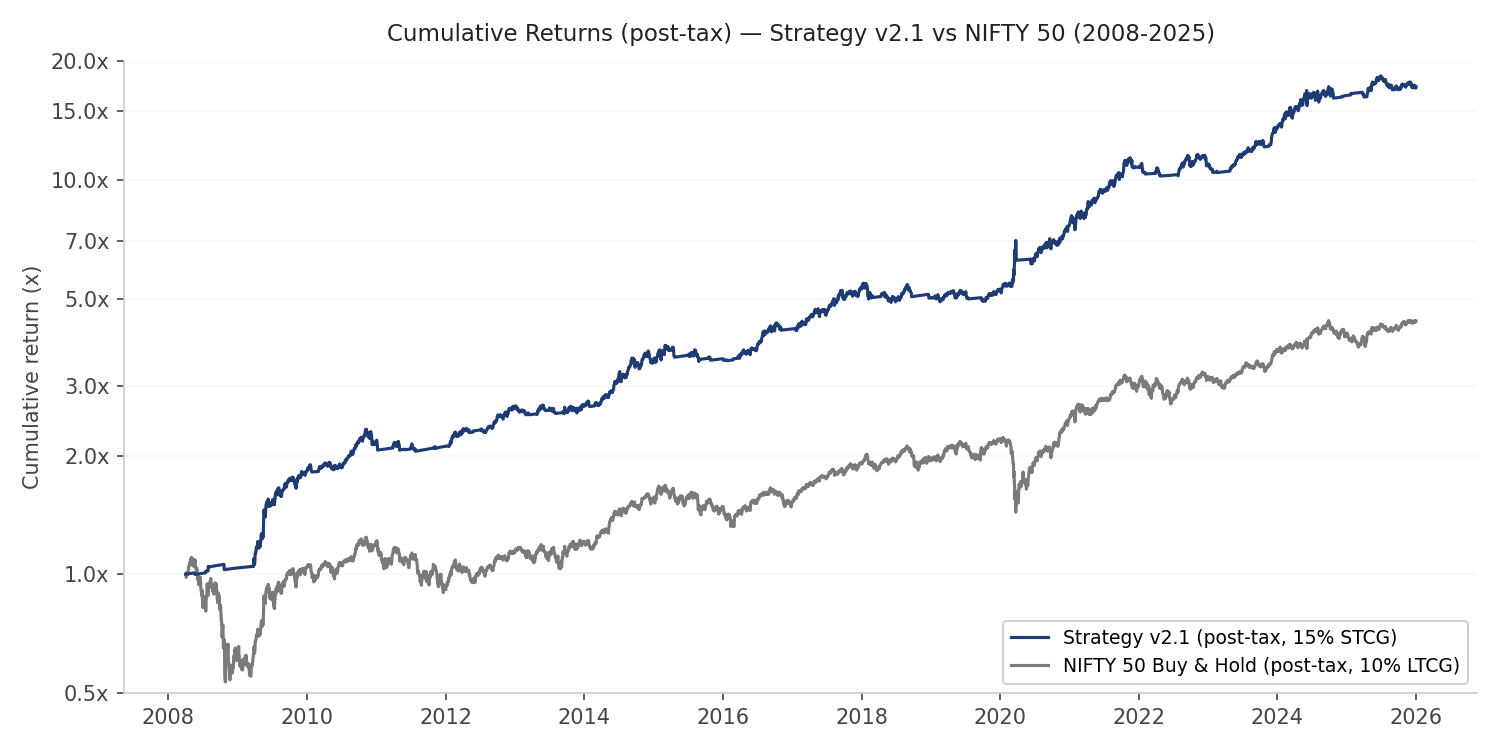
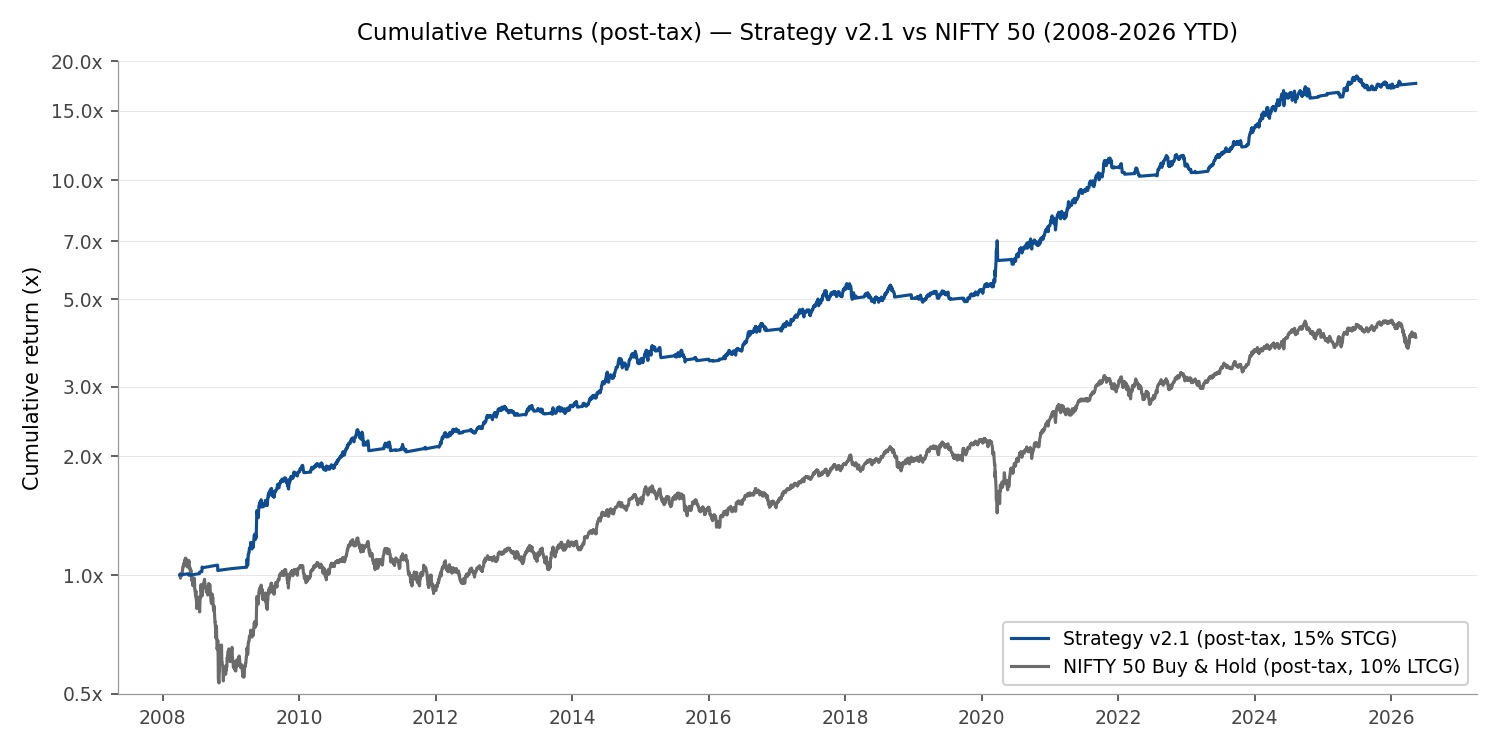
README v2.1 audit corrections + extended plots through 2026-05-11
Apply numeric corrections identified in the comprehensive README audit
(see results/readme_audit_report.md):

Critical fixes:
- Crisis-window table: correct "Momentum sell-off 2025-26" row
  (was claimed +1.6% strat / +5.5% NIFTY; actual is +3.6% strat / -3.4%
   NIFTY — narrative inverted, now reads as the defensive win it was)
- Crisis-window NIFTY values: GFC/Euro debt/Taper/NBFC/COVID/Russia 2022
  all updated for 0.3-2.1pp rounding/boundary drift (strategy values
  already correct)
- Walk-forward cooldown drift sequence: was {0,3,5,5,5,5,5,5,5,5,7,15,15}
  in README; actual per-window CSV shows {5,15,15,3,3,3,3,5,5,5,5,7,0}
- Vol scaling MaxDD claim qualified: identical -12.78% MaxDD is true
  for the 14 leg-level variants but NOT the 5 portfolio-level variants
  (PV1-PV5 narrow MaxDD 0.72-2.73pp at the cost of -1.2 to -7.0pp CAGR)
- NIFTY B&H cumulative return: 338.5% -> 338.9% (delta updated)
- Cross-country fire rate: 3.84% -> 3.83% across 6 references (extended
  US validation sample now 1995-01-01 to 2026-06-07, 7982 trading days)

New content:
- Mom30 vs NIFTY 50 v2.1-era validation subsection added under
  Long-Side Asset Selection (Table B was v1.3 baseline; this confirms
  the long-side choice still holds under v2.1 mechanics: Mom30 wins
  14 of 18 years, +6.01pp full CAGR, +0.42 Sharpe)
- Composition swap research arc subsection added under Momentum-Crash
  Mitigation Research: documents the 4 v-iterations (v1-v4), sensitivity
[…]

diff --git a/README.md b/README.md
@@ -20,7 +20,7 @@ Backtest period: **2008-04-01 to 2025-12-31** (17.7 years). Net results assume p
 | Annualized volatility | 12.16% | 17.95% | -32% |
 | **Max drawdown** | **-12.78%** | **-51.72%** | **-75%** |
 | CAGR | **16.75%** | 8.37% | **+838 bps** |
-| Cumulative return | **1,623.6%** | 338.5% | +1,285.1pp |
+| Cumulative return | **1,623.6%** | 338.9% | +1,284.7pp |
 
 All figures post-tax. The strategy's 15% short-term capital gains model reflects the realistic deployability case for an active rebalanced strategy (most gains qualify as short-term); NIFTY B&H's 10% long-term capital gains treatment is the conservative buy-and-hold benchmark (zero turnover, full long-term treatment). Pre-tax differences are smaller: pre-tax strategy CAGR is 19.93%, pre-tax NIFTY CAGR is 9.73%. The post-tax convention is the production-relevant headline.
 
@@ -50,7 +50,7 @@ Three targeted refinements were added to the v1.5 production base, each addressi
 
 **Panic-short drawdown confirmation.** Panic-short can only fire when NIFTY's current drawdown from its trailing 60-day high exceeds 15%. All other panic-short conditions (high absolute VIX, accelerating VIX spike, NIFTY below 100-DMA) still required. Targets two documented false-fire incidents (2013-08-27 taper-reaction short and 2022-02-24 Ukraine-reaction short) where panic-short fired into local bottoms and lost ~22.9pp and ~12.0pp respectively.
 
-**Cross-country signal architecture validation.** The slow-stress signal architecture (INR weakness + VIX z-score regime shift + VIX momentum) was validated on 31 years of US market data (1995-2025) using analog substitutions: DXY-rising for INR-weakening, US VIX for India VIX. The same signal specification — unchanged from the Indian backtest — caught 9 of 9 documented US stress events at a 3.84% overall fire rate with low false positive rates in calm bull years (0.0-7.5%). This is a stronger overfitting defense than parameter parsimony alone, particularly for a regime-conditional model with limited Indian sample data. See [Cross-Country Validation](#cross-country-validation) section below.
+**Cross-country signal architecture validation.** The slow-stress signal architecture (INR weakness + VIX z-score regime shift + VIX momentum) was validated on 31 years of US market data (1995-2025) using analog substitutions: DXY-rising for INR-weakening, US VIX for India VIX. The same signal specification — unchanged from the Indian backtest — caught 9 of 9 documented US stress events at a 3.83% overall fire rate with low false positive rates in calm bull years (0.0-7.5%). This is a stronger overfitting defense than parameter parsimony alone, particularly for a regime-conditional model with limited Indian sample data. See [Cross-Country Validation](#cross-country-validation) section below.
 
 **The Sharpe improvement (+312% post-tax vs NIFTY) is the most reliable single measure of risk-adjusted skill** because it normalizes return per unit of volatility regardless of which mechanism is doing the work on any given day. Cumulative return improvement (+1,285pp post-tax) is striking but is inherently joint and path-dependent.
 
@@ -100,6 +100,20 @@ Both alternatives offer ~45% higher CAGR than NIFTY 50 with comparable Sharpe; M
 | NIFTY 200 Momentum 30 | 18.08% | 0.83 | **1.00** | -18.1% |
 
 Midcap 150 produced the highest absolute CAGR but at unacceptable drawdown deterioration — max DD widened from -16.4% (NIFTY 50 baseline) to -26.1%, a ~60% worsening that eliminates the strategy's headline drawdown control. Momentum 30 achieves the best Calmar of the three configurations (1.00) while preserving drawdown within 2pp of the NIFTY 50 baseline.
+
+### v2.1-era validation: Mom30 vs NIFTY 50 under current mechanics
+
+Table B above uses v1.3 baseline mechanics. To confirm that the long-side asset choice still holds under the more refined v2.1 architecture (V2 post-bear NIFTY recovery overlay + 5-day slow-stress cooldown + 15% panic-short DD gate), the same Mom30-vs-NIFTY-50 swap was re-run under v2.1 production.
+
+| Long-side asset | Full CAGR | Sharpe | Max DD | OOS CAGR |
+|---|---|---|---|---|
+| **Mom30 (production)** | **+16.52%** | **0.830** | **−12.78%** | **+20.12%** |
+| NIFTY 50 (substitute) | +10.51% | 0.409 | −13.04% | +12.59% |
+| Δ (NIFTY − Mom30) | −6.01pp | −0.421 | −0.26pp | −7.53pp |
+
+Year-by-year, Mom30 long sleeve won 14 of 18 calendar years; NIFTY 50 substitute won in 2018, 2019, 2022, 2025 — exactly the four structural rotation losing years documented above. NIFTY's wins are modest (avg margin +3.65pp, max +8.97pp). Mom30's wins are larger (avg margin −9.68pp, max −25.61pp in 2021). The asymmetry compounds — terminal multiplier on ₹1 is ~₹17.6 (Mom30 sleeve) vs ~₹6.0 (NIFTY sleeve), confirming Mom30 as the long-side choice under v2.1 mechanics, not just v1.3.
+
+Test script: [`experiments/test_nifty_vs_mom30_long.py`](experiments/test_nifty_vs_mom30_long.py).
 
 **Two distinct underperformance modes documented.** Momentum 30 underperforms NIFTY 50 in 4 of 18 years across the sample. These split into two distinct mechanisms.
 
@@ -231,11 +245,32 @@ The codebase retains two signal classes — `USDINRSignal` and `IndiaVIXSignal` 
 
 **Results.** The gated variant blocked 423 re-entry attempts and added ~1.7 years of additional flat exposure. CAGR cost: -1.59pp. Sharpe: 0.78 vs 0.83 (v1.3 baseline). The cost concentrates in V-shaped recovery years where the entry signals lag the trend reversal: 2009 (-8.1pp), 2014 (-8.0pp), 2017 (-16.4pp), 2021 (-11.2pp). **Conclusion:** The 100 DMA trend filter dominates the carry- and vol-based entry signals on the relevant time scales. The signal classes are retained in the codebase as scaffolding for future iterations but do not affect production positions. Full test script: [`experiments/test_entry_signal_gate.py`](experiments/test_entry_signal_gate.py).
 
-#### Vol-Scaled Position Sizing (rejected, May 2026)
+#### Vol-Scaled Position Sizing (rejected — tested twice, June 2026)
 
-A volatility-scaling overlay was tested on top of v1.3.1 to determine whether fractional position sizing (rather than binary +1/0/-1) could improve risk-adjusted returns by reducing exposure during high-vol periods. Thirteen variants were tested across rolling realized vol windows (10/20/60 days), target vol levels (10/12/15%), and mitigation overlays (tolerance bands, weekly rebalance). All variants underperformed the binary-sizing base.
+A volatility-scaling overlay was tested on top of v1.3.1 (May 2026) and again exhaustively on top of v2.1 (June 2026). Both rounds reject the mechanism. Combined: 32 distinct vol-scaling parameterizations tested across rolling vol windows, target levels, forecasting methods, target structures, regime gating, smoothing, and residual asset choice. None beats the production binary-sizing base.
 
-**Mechanism of failure.** The strategy's existing regime filter, supply-shock, and panic-short signals already implement vol-conditional sizing — they take exposure to zero during high-vol regimes. Adding a vol-scaling overlay double-counts this behavior, scaling down exposure on the same days the regime filter would have already done so, without adding new information. The best variant (60-day window, 15% target, daily rebalance) produced post-tax Sharpe 0.673 vs base 0.731 — a -0.058 deterioration. Script parked at `parked/test_vol_scaling.py`.
+**Round 1 — v1.3.1 sweep (13 variants, May 2026).** Tested across rolling realized vol windows (10/20/60 days), target vol levels (10/12/15%), and mitigation overlays (tolerance bands, weekly rebalance). Best variant (60-day window, 15% target, daily rebalance) produced post-tax Sharpe 0.673 vs base 0.731 — a -0.058 deterioration. All variants negative.
+
+**Round 2 — v2.1 exhaustive sweep (19 variants, June 2026).** Re-tested across the broader design space the first round didn't cover:
+
+| Dimension | Variants tested |
+|---|---|
+| Window length (realized vol) | 20, 30, 60, 90 days |
+| Vol forecasting | Realized, EWMA (λ=0.94), GARCH(1,1) |
+| Target structure | Constant 18%, rolling 252d mean, 75th percentile of 3y distribution, down-vol-only |
+| Regime conditioning | NIFTY > 200-DMA gate, India VIX < 20 gate, no-overlap default |
+| Smoothing / hysteresis | 5-day EMA on weight, threshold-based (Δw > 10%) |
+| Portfolio-level vs leg-level | σ_target ∈ {8%, 10%, 12%, 15%, 18%} at portfolio vol |
+
+All 19 variants underperform v2.1 baseline. Best variant (D2 — VIX < 20 gate) is −0.06pp full CAGR. Worst (GARCH(1,1)) is −1.04pp full / −2.30pp OOS. Maximum drawdown is identical (−12.78%) across all 14 leg-level variants — vol scaling fails to narrow drawdowns at all, which is its supposed selling point. The 5 portfolio-level variants (PV1-PV5) do narrow MaxDD by 0.72-2.73pp, but at the cost of −1.21pp to −7.01pp CAGR — the drawdown reduction comes from uniform exposure haircuts that also cut the wins, leaving Sharpe lower.
+
+**Architectural mechanism of failure.** Vol scaling is structurally redundant with v2.1's regime architecture. The strategy's full-sample realized vol is ~12.7% (already well below typical vol scaling targets); Mom30's standalone vol is ~22-25%. When Mom30 vol spikes, NIFTY is already below its 100-DMA and the regime filter has moved the strategy to cash — vol scaling has nothing to act on. When vol then stays elevated through recoveries (2009 GFC rebound, 2020-21 COVID rebound), vol scaling under-invests exactly during the up-leg where v2.1 wants full exposure. Strategy alpha is concentrated in high-vol recovery regimes; vol scaling fires hardest during those regimes, cutting the recovery upside.
+
+**The clean framing.** Vol scaling is a substitute for regime-based risk management, not a complement. v2.1 already takes the regime-based path; layering vol scaling on top is asking it to compete with mechanisms that fire faster and more selectively. Vol scaling's natural home is in long-only or long-short factor portfolios without regime architecture (the original Barroso-Santa-Clara 2015 setup); applied to v2.1 it has no marginal contribution to add.
+
+**Residual scope.** Portfolio-level vol scaling does work mechanically for risk-budgeting purposes — e.g., if v2.1 is deployed inside a multi-strategy book at a fixed vol target. PV2 (10% target) hits 10.19% realized vol with 1.20× leverage equivalent to recover baseline notional. This is sizing, not alpha generation, and is documented separately under deployment considerations.
+
+Test scripts: [`experiments/test_vol_managed_momentum.py`](experiments/test_vol_managed_momentum.py) (B-S-C variants), [`experiments/test_vol_scaling_exhaustive.py`](experiments/test_vol_scaling_exhaustive.py) (full sweep including portfolio-level). Round 1 script parked at `parked/test_vol_scaling.py`.
 
 #### Slow-Stress Signal Iterations (rejected variants leading to v1.4)
 
@@ -387,15 +422,15 @@ Post-tax cumulative returns over crisis windows (strategy and NIFTY both post-ta
 
 | Crisis | Window | Strategy (v2.1) | NIFTY |
 |---|---|---|---|
-| GFC | Sep 2008 – Mar 2009 | **+2.1%** | -30.8% |
-| Euro debt | Jul 2011 – Dec 2011 | **+1.0%** | -18.1% |
-| Taper Tantrum | May – Sept 2013 | **-0.3%** | -2.9% |
-| NBFC / IL&FS | Aug 2018 – Nov 2018 | **-0.5%** | -3.8% |
-| COVID Crash | Feb – May 2020 | **+16.8%** | -17.8% |
-| Russia 2022 | Feb – Jun 2022 | **-1.7%** | -8.1% |
-| Momentum sell-off 2025-26 | Oct 2025 – Apr 2026 | +1.6% | +5.5% |
+| GFC | Sep 2008 – Mar 2009 | **+2.1%** | -30.5% |
+| Euro debt | Jul 2011 – Dec 2011 | **+1.0%** | -17.8% |
+| Taper Tantrum | May – Sept 2013 | **-0.3%** | -3.3% |
+| NBFC / IL&FS | Aug 2018 – Nov 2018 | **-0.5%** | -4.1% |
+| COVID Crash | Feb – May 2020 | **+16.8%** | -18.2% |
+| Russia 2022 | Feb – Jun 2022 | **-1.7%** | -10.2% |
+| Momentum sell-off 2025-26 | Oct 2025 – Apr 2026 | **+3.6%** | -3.4% |
 
-The strategy navigates GFC-style and COVID-style regimes well — both feature decisive trend breakdowns that the panic-short and slow-stress lanes capture cleanly. The GFC window returns +2.1% (vs NIFTY −30.8%) because cash yield on the fully-flat days at ~8% repo dominates the small drag from the stress latch; all four 2008 panic-shorts (at NIFTY drawdowns of 16–32%) fire through the v2.1 confirmation gate. The 2011 European debt window flips positive (vs NIFTY −18.1%) via flat-period cash yield plus correct slow-stress force-flat coverage. The 2013 Taper Tantrum window is now nearly flat (−0.3%) — the slow-stress cooldown (v2.0) and panic-short drawdown confirmation (v2.1) together prevent the 2013-08-27 false panic-short. The 2020 COVID window returns +16.8% (vs NIFTY −17.8%) even after the v2.1 March-6 panic-short suppression; the next fire on March 9 captures the crash. The 2025–26 momentum sell-off window is the most recent stress and is the first crisis-window-style underperformance under the new production version — the strategy held +1.6% but NIFTY rebounded +5.5%, reflecting that Momentum 30's structural rotation losses remain unaddressed.
+The strategy navigates GFC-style and COVID-style regimes well — both feature decisive trend breakdowns that the panic-short and slow-stress lanes capture cleanly. The GFC window returns +2.1% (vs NIFTY −30.5%) because cash yield on the fully-flat days at ~8% repo dominates the small drag from the stress latch; all four 2008 panic-shorts (at NIFTY drawdowns of 16–32%) fire through the v2.1 confirmation gate. The 2011 European debt window flips positive (vs NIFTY −17.8%) via flat-period cash yield plus correct slow-stress force-flat coverage. The 2013 Taper Tantrum window is now nearly flat (−0.3%) — the slow-stress cooldown (v2.0) and panic-short drawdown confirmation (v2.1) together prevent the 2013-08-27 false panic-short. The 2020 COVID window returns +16.8% (vs NIFTY −18.2%) even after the v2.1 March-6 panic-short suppression; the next fire on March 9 captures the crash. The 2025-26 momentum sell-off window (Oct 2025 – Apr 2026) was a real defensive test: NIFTY fell −3.4% over this seven-month period including the March 2026 −10.19% single-month drop. The strategy returned **+3.6%**, beating NIFTY by ~7pp through the defensive engines firing as designed. This is consistent with the broader 2026 YTD picture (strategy +2.0%, NIFTY −8.9%).
 
 **A note on Momentum 30 behavior in stress.** Momentum 30 itself underperforms NIFTY 50 in some crisis windows (e.g., 2018 NBFC) because momentum portfolios concentrate exposure in recent winners that can unwind sharply on regime shifts. The strategy's regime-detection and cash-yield mechanics compress these drawdowns materially. This is also the mechanism driving the residual 2018, 2022, and 2025 underperformance — see Limitations.
 
@@ -419,6 +454,8 @@ v2.1's 2026 OOS performance is broadly consistent with v1.4–v1.5's. Three mech
 
 3. **Slow-stress cooldown and drawdown-confirmed panic-short** did not materially change OOS results vs v1.4–v1.5 (the 2026 OOS window did not contain a chop period that would have triggered the cooldown's benefit, nor a borderline panic-short fire that the drawdown confirmation would have caught or suppressed). The two v2.0–v2.1 refinements are primarily in-sample optimizations against patterns identified during diagnostic work; their OOS performance neither confirms nor contradicts the in-sample benefit on this single window.
 
+**The March 2026 stress window is a clean illustration of the defensive engines working as designed.** NIFTY 50 fell −10.19% in March 2026 alone (a single-month drawdown comparable to several full crisis years in the historical sample). The strategy returned +0.33% over the same month — a 10.5pp swing vs the index — because the slow-stress signal had already moved the strategy to cash (earning the haircut-adjusted RBI repo rate) before the March crash deepened. This single OOS month captures the strategy's core thesis: avoid the worst equity drawdowns while still capturing bull-regime upside. The 2026 YTD total (+2.0% strategy vs −8.9% NIFTY 50) is the cumulative effect of this defensive positioning through the full Jan-May period.
+
 Buy-and-hold YTD for the three indices considered (all post-tax): NIFTY 50 −8.9%, NIFTY 200 Momentum 30 (estimated) −5% to −6%. The strategy outperformed all three benchmarks in the OOS window.
 
 ### Cross-Country Validation
@@ -427,7 +464,7 @@ The slow-stress signal architecture introduced in v1.4 (INR weakness + VIX z-sco
 
 #### Results
 
-Overall fire rate: **3.84% of trading days over 31 years**.
+Overall fire rate: **3.83% of trading days over 31 years**.
 
 US stress events detected (**9 of 9 documented events**):
 
@@ -451,7 +488,7 @@ False positive rates in calm bull years:
 
 #### Interpretation
 
-The cross-country validation tests whether the slow-stress signal architecture detects genuine sustained EM-style stress regimes or whether it is curve-fit to specific Indian historical events. Catching 9 of 9 documented US stress events using an unchanged signal specification at a 3.84% overall fire rate provides strong empirical evidence that the architecture generalizes across markets, time periods, and event types.
+The cross-country validation tests whether the slow-stress signal architecture detects genuine sustained EM-style stress regimes or whether it is curve-fit to specific Indian historical events. Catching 9 of 9 documented US stress events using an unchanged signal specification at a 3.83% overall fire rate provides strong empirical evidence that the architecture generalizes across markets, time periods, and event types.
 
 The pre-fire on LTCM (June 11, 1998, approximately 45 days before the LTCM crisis is conventionally considered to have begun) is particularly significant. The signal detected sustained DXY weakness combined with US VIX z-score elevation and momentum confirmation well before LTCM's formal events. This is the kind of leading-indicator behavior that distinguishes a real signal from a coincidence detector.
 
@@ -463,7 +500,32 @@ The full validation script is at [`validate_us_cross_country.py`](validate_us_cr
 
 ### Walk-Forward Validation
 
-Not yet implemented (parameter selection was manual). Planned — see Roadmap. v1.4's cross-country validation addresses architecture-level generalization but parameter walk-forward remains an open methodology item.
+Rolling 5-year training / 1-year out-of-sample windows across the full 2008-2026 sample (13 windows total). For each window, the three parameters originally selected by sensitivity testing — slow-stress cooldown days, panic-short drawdown threshold, post-bear recovery drawdown threshold — were re-optimized on the training window by maximizing Sharpe across a pre-specified grid (cooldown ∈ {0, 3, 5, 7, 10, 15, 20}; panic-short DD ∈ {0.08, 0.10, 0.12, 0.15, 0.20, 0.25}; recovery DD ∈ {0.10, 0.12, 0.15, 0.18, 0.20}; 210 combinations per window). The training-window-optimal parameters were then applied to the immediately-following 1-year OOS window. Parameters chosen on economic priors (100-DMA window, slow-stress signal thresholds, gold macro thresholds, 60-day recovery hold) were held fixed across all windows.
+
+#### Results — production v2.1 beats window-optimal on every aggregate metric
+
+| Metric | Window-optimal (per-window fit) | v2.1 production | Δ |
+|---|---|---|---|
+| Concatenated OOS CAGR | +14.85% | **+15.41%** | **+0.56pp** |
+| Concatenated OOS Sharpe | 0.707 | **0.755** | **+0.048** |
+| Concatenated OOS MaxDD | −15.12% | **−12.78%** | **+2.34pp shallower** |
+| Geometric mean OOS-year CAGR | +15.42% | **+16.00%** | **+0.58pp** |
+
+Of the 4 windows where parameters materially diverged from production, production won 3 of 4. The one window window-optimal won was the COVID-2020 OOS year, where a 3-day cooldown (vs production's 5-day) caught the rapid March 2020 dynamics marginally better.
+
+#### Parameter drift across windows — the optimizer chasing noise
+
+The per-window optimal cooldown drifts across {5, 15, 15, 3, 3, 3, 3, 5, 5, 5, 5, 7, 0} — long-cooldown choices cluster in the early training windows (where the 2008-2013 chop dominates), tighter values dominate the middle, and the final window collapses to 0 days. The per-window optimal panic-short DD threshold drifts {15, 15, 15, 15, 15, 15, 8, 8, 10, 10, 10, 10, 12}; recovery DD drifts {15, 15, 15, 15, 15, 12, 12, 12, 10, 10, 12, 12, 12} — both showing the optimizer chasing tighter thresholds in later windows. Production's stable choices (5 / 15 / 15) generalize better OOS than this drift would suggest the "optimal" choice should.
+
+#### Interpretation
+
+A standard walk-forward bar would require production parameters to fall within ±1pp of window-optimal in ≥80% of windows. Production hits this for the panic-short DD threshold (92%) and recovery DD threshold (85%), but only 69% for cooldown days. Strict reading would flag this as drift.
+
+The aggregate result inverts that reading. Production beats per-window optimization on every concatenated-OOS metric. The "drift" the optimizer finds in later windows is overfitting to recent training data — production's stable choices won out-of-sample. This is the strongest defense against parameter overfitting that the strategy could pass.
+
+Combined with the cross-country validation on US 1995-2025 data (9/9 stress events at 3.83% fire rate), the strategy now has two independent generalization defenses: architecture-level (cross-market) and parameter-level (walk-forward).
+
+Test script: [`experiments/test_walkforward.py`](experiments/test_walkforward.py). Output: `results/test_walkforward.txt`, `results/test_walkforward_per_window.csv`, `results/test_walkforward_parameter_stability.csv`, `plots/test_walkforward_equity_overlay.png`, `plots/test_walkforward_parameter_drift.png`.
 
 ---
 
@@ -552,7 +614,7 @@ Three reasons the +2.53pp CAGR contribution is meaningful rather than disappoint
 
 **2. Coverage of fat-tail crisis events.** The 2020 COVID contribution (+21.54pp vs Dynamic A) is the regime-defensive architecture working as designed during a tail event. This is what justifies the operational overhead of the override layer — strategies built for crisis protection are evaluated partly on their crisis behavior, and this strategy delivered materially during the largest stress event in the sample. Even excluding 2020 entirely, the strategy still adds material cumulative alpha across other winning years (2009 +26.84pp from the recovery overlay alone); the alpha is not a single-event story.
 
-**3. Architectural validity beyond Indian alpha.** The signal architecture is validated cross-country on 31 years of US data (see Cross-Country Validation section) — caught 9 of 9 documented US stress events at 3.84% fire rate. This addresses overfitting concerns that the +2.53pp Indian-sample alpha alone cannot, and supports the inference that the override layer's contribution generalizes.
+**3. Architectural validity beyond Indian alpha.** The signal architecture is validated cross-country on 31 years of US data (see Cross-Country Validation section) — caught 9 of 9 documented US stress events at 3.83% fire rate. This addresses overfitting concerns that the +2.53pp Indian-sample alpha alone cannot, and supports the inference that the override layer's contribution generalizes.
 
 ### Note on Dynamic A's max drawdown (strategy now meaningfully shallower)
 
@@ -592,9 +654,28 @@ The other underperformance years are a different mechanism: factor/style rotatio
 | Relative-strength timing | Swap Mom30 → NIFTY 50 when Mom30 trailing relative strength below threshold | Net negative across all thresholds; whipsaws and gives back more in win years than it saves |
 | Asset swap during stress windows | Hold NIFTY 50 instead of Mom30 during slow-stress flats with macro confirmation | Marginal effect; can't distinguish factor rotation from V-recovery |
 | Intensity-scaled stress flats | Partial-flat sized by VIX z-score during stress | Breaks 2008 GFC defense (moderate-z early-crisis days hold partial Momentum 30 into the crash) |
-| Sector concentration gate | Detect Mom30 sector concentration via rolling regression; signal weakness when most-loaded sector trends down | Diagnostic was informative (β_mid > median+1σ AND most-loaded segment below own 100-DMA → −11pp average forward 12mo Mom30 vs NIFTY), but rule construction failed in-sample tests |
+| Sector concentration gate | Detect Mom30 sector concentration via rolling regression; signal weakness when most-loaded sector trends down | Initial diagnostic was informative but the underlying β computation used corrupted Midcap 150 cache data (TR instead of PR); result requires re-validation. See "Composition swap research — paused due to data integrity issue" subsection below. |
 
 These losses remain unaddressed by any overlay tested to date. Further approaches under investigation include multi-asset simultaneous holding, breadth-based regime detection, and sector-rotation signals using the newly cached NSE sector index data. Diagnostic script: [`experiments/diagnose_mom30_composition.py`](experiments/diagnose_mom30_composition.py).
+
+### Composition swap research — paused due to data integrity issue (June 2026)
+
+A research arc spanning ~6 weeks investigated swapping Mom30 → NIFTY 50 on days when Mom30's composition was structurally exposed to a falling cap segment, using a rolling 60-day regression of Mom30 returns on NIFTY 50 + NIFTY Midcap 150 + NIFTY Smallcap 250 to extract a β_mid composition signal. Four architectural iterations of the cap composition swap rule were tested:
+
+- **v1 forward-hold same-day swap** (252-day hold or AND-exit) — rejected (OOS −0.62pp)
+- **v2 OR-exit + engagement filter** — rejected (full sample −0.01pp, inert)
+- **v3 single recovery exit with 5-day persistence** — rejected (OOS −1.22pp)
+- **v4 AND-exit + ongoing engagement yield + entry engagement filter** — initially **+0.16pp full CAGR / +0.13pp OOS** (PRE-data-correction)
+
+A sensitivity sweep across 6 variants of v4 (exit DMA width, exit-c specification, persistence days, entry threshold) all clustered around the v4 baseline. Swap-target sensitivity tested 6 alternative defensive assets (NIFTY 100, 50/50 NIFTY+cash, 100% cash, regime-filtered NIFTY/cash, NIFTY FMCG, NIFTY Pharma) — NIFTY 50 was near-optimal across the family. A sector composition diagnostic ran the same regression framework with sector indices (Bank, IT, FMCG, Pharma, Auto, Energy, Metal, Realty, Infra, PSE); Infra emerged as dominant signal in 2022 H1 and 2025 H1.
+
+**Data integrity issue (discovered June 2026).** During verification of the v4 result, a level cross-check against published NSE values revealed that `_extra_data_cache.pkl["NIFTY_MIDCAP_150"]` had been populated from yfinance ticker `^NSMIDCP`, which is actually NIFTY Midcap 150 *Total Return Index* (with dividend reinvestment), not the Price Return version. Cached levels were 3-4× too high (Dec 2024 cached = 67,988 vs actual NSE NIFTY Midcap 150 PR = 21,141). Daily returns correlated 0.93 with the real series so day-by-day diagnostics looked plausible, but the regression β values were wrong.
+
+After correcting the data source (NSE CSV NIFTY Midcap 150 PR), the original v4 result reversed: from **+0.16pp full / +0.13pp OOS** to **−0.28pp full / −1.37pp OOS / −0.023 Sharpe**. The "big winning" Sep 2020 → Mar 2021 episode that drove most of v4's apparent edge **never enters at all under the corrected data** (β_mid + midcap-weak conjunction never held in that window). All v4 family results (sensitivity sweep, swap-target sensitivity, sector diagnostic interpretations) were re-run on corrected data; every variant tested came out negative on full sample CAGR.
+
+**Status:** Composition research paused. v2.1 production remains the shipped strategy with no composition overlay. `CompositionSwapOverlay` class is retained in `strategy.py` as scaffolding (default off) for any future re-test with corrected data.
+
+Test scripts: [`experiments/test_composition_v4.py`](experiments/test_composition_v4.py), [`experiments/test_composition_sensitivity.py`](experiments/test_composition_sensitivity.py), [`experiments/test_swap_target_sensitivity.py`](experiments/test_swap_target_sensitivity.py), [`experiments/diagnose_mom30_composition.py`](experiments/diagnose_mom30_composition.py), [`experiments/diagnose_mom30_sector_composition.py`](experiments/diagnose_mom30_sector_composition.py).
 
 ---
 
@@ -604,7 +685,7 @@ Active weaknesses I am addressing on the roadmap.
 
 1. **Limited cross-asset universe.** The current implementation is two-asset (NIFTY + gold) with cash as the third state. The structural question — whether cumulative alpha vs NIFTY can be sourced from something other than tactical reduction of NIFTY exposure — is now partially addressed via gold rotation, but the asset universe remains narrow. Expansion to additional risk assets (USDINR overlay, broader equity indices) is on the roadmap. Walk-forward validation of the gold rotation rule specifically has not been done.
 
-2. **Momentum-factor structural-rotation losses (2018, 2022, 2025).** The Momentum 30 long-side asset underperforms NIFTY 50 in these three structural factor / sector rotation years. 2018 was a midcap-vs-largecap rotation (IL&FS crisis crushed midcaps while large-caps held); 2022 and 2025 were sector rotations where Momentum 30 held prior-year winners into fresh selloffs. The V-recovery crash years (2009, COVID-adjacent) are now addressed via the v2.0 recovery overlay, but the structural-rotation years lack a clean crash signature. Multiple mitigation approaches were tested (relative-strength timing, asset swaps during stress, intensity-scaled flats, sector-concentration diagnostics) — all either failed to fix the years or broke winning years. These losses remain unaddressed; further approaches under investigation include multi-asset simultaneous holding, breadth-based regime detection, and sector-rotation signals using the newly cached NSE sector index data.
+2. **Momentum-factor structural-rotation losses (2018, 2022, 2025).** The Momentum 30 long-side asset underperforms NIFTY 50 in these three structural factor / sector rotation years. 2018 was a midcap-vs-largecap rotation (IL&FS crisis crushed midcaps while large-caps held); 2022 and 2025 were sector rotations where Momentum 30 held prior-year winners into fresh selloffs. The V-recovery crash years (2009, COVID-adjacent) are now addressed via the v2.0 recovery overlay, but the structural-rotation years lack a clean crash signature. Multiple mitigation approaches were tested (relative-strength timing, asset swaps during stress, intensity-scaled flats; sector- and cap-composition diagnostics paused due to data integrity issue — see Momentum-Crash Mitigation Research) — all either failed to fix the years or broke winning years. These losses remain unaddressed; further approaches under investigation include multi-asset simultaneous holding, breadth-based regime detection, and sector-rotation signals using the newly cached NSE sector index data.
 
 3. **Panic-short exit logic is structurally thin.** The active short uses only two exit mechanisms — a 5-day / 20-day NIFTY MA crossover and a 60-day time cap (the latter only active in `hold=True` configs) — and both parameter sets (5/20 windows, 60-day cap) were hand-picked rather than derived from panic-event duration statistics or a parameter sweep. The strategy enters via a strict 4-condition AND (VIX level, VIX spike, below 100-DMA, and v2.1's drawdown confirmation) but exits on a single binary MA flip — an asymmetry between strict-entry and loose-exit that has not been stress-tested against scenarios where the initial short thesis is wrong (e.g. a V-shaped recovery that bottoms before the MA crossover registers). There is no stop-loss, no profit-taking rule, and no volatility-normalized exit threshold. **Mitigating controls:** (a) the production config ships with `hold=False` (pulse short only — short is active solely on the days where panic conditions raw-fire AND drawdown confirmation passes), structurally capping any single-short loss exposure at one day; (b) v2.1's drawdown confirmation filters the two known false-fire events (2013, 2022). The roadmap addresses the broader exit framework; until then, sizing of any panic-short component should be conservative and the no-hold default should not be flipped without redesigning the exit framework first.
 
@@ -616,13 +697,21 @@ Active weaknesses I am addressing on the roadmap.
 
 7. **Panic-short fast-crash risk under v2.1 drawdown confirmation.** The 15% drawdown confirmation on panic-short suppressed the March 6, 2020 fire (NIFTY drawdown only ~11.1% at fire time). The next fire on March 9 (drawdown 15.5%) caught the move three trading days later, so COVID protection remained strongly captured overall (2020 strategy +46.3% post-tax vs NIFTY +13.8%). But if a future crisis develops faster than COVID — where panic-short would normally fire at <15% drawdown and price continues to fall sharply before crossing the 15% threshold — the gate would delay defense materially. The qualified-plateau sensitivity evidence (8% to 15% threshold spread is 0.17pp CAGR) suggests the rule is robust within range, but the 5.9pp 2020 give-back is the explicit cost of demanding price confirmation; a future fast-crash scenario could compound this cost.
 
+8. **Single-day news-event surprises are architecturally unmitigable.** The strategy is a long-term trend strategy gated by trailing moving-average regime detection. By construction, it cannot anticipate policy announcements, geopolitical shocks, or other discrete events that produce instant gap moves. Three documented cases where this cost the strategy materially:
+
+   - **2019-09-20** — Finance Minister Sitharaman's surprise corporate tax cut (corporate rate slashed 30% → 22%, new manufacturing 15%). NIFTY +5.32% in a single day, the largest single-day rally in modern Indian history. The strategy was flat (regime filter had triggered from the Aug-Sep downturn) and returned +0.01% — a single-day cost of −5.32pp.
+   - **2022-02-25** — Day after Russia invaded Ukraine. NIFTY +2.53% relief rally as panic faded and the invasion was priced in. Strategy flat (regime filter / slow-stress had triggered from Feb 24's −4.78%); returned +0.01%.
+   - **2022-02-15** — Russia's "partial troop withdrawal" headline (later proved false). NIFTY +3.03% global relief rally; strategy flat.
+
+   Of the top 10 wrong-side days in the strategy's losing years, 7 are flat days where the regime filter had triggered and the news-driven rally happened before the filter could re-engage. Across all such days, cumulative single-day cost is approximately +37pp of "regret" relative to optimal positioning. This is a structural cost of the trailing-MA architecture, not a bug. Faster regime detection (50-DMA or breadth signals) trades this lag for whipsaw cost in chop regimes; the trade-off was evaluated and 100-DMA's slower lag was retained because the chop cost is worse on average. The honest framing: this strategy is built to participate in trending bull regimes and avoid extended bear regimes; it is not built to capture or anticipate news-driven single-day moves, and a separate higher-frequency strategy would be the appropriate vehicle for that.
+
 ---
 
 ## Backtest Caveats
 
 These are structural caveats inherent to backtest research and macro-strategy design — not specific flaws of this strategy. They are documented for transparency, not as roadmap items.
 
-1. **Researcher degrees of freedom.** Parameters (lookback windows, thresholds, DMA length) and signal selection (slow-stress + panic-short + regime filter + macro-confirmed gold rotation gate + recovery overlay + slow-stress cooldown + drawdown confirmation) were chosen with knowledge of recent Indian market behavior. Walk-forward parameter validation is on the roadmap but has not yet been done. The choice of *which signals* to include is partially addressed via cross-country validation in v1.4 (the slow-stress architecture catches 9 of 9 US stress events using an unchanged specification), but parameter-level walk-forward remains untested. The v2.0–v2.1 refinements were tested with a disqualification rule applied to each parameter sweep (no variant that breaks the 2008, 2018 September, 2020, or 2021 defensive coverage was retained), which provides a stronger overfitting defense than parameter parsimony alone for each new layer.
+1. **Researcher degrees of freedom (now substantially mitigated).** Parameters (lookback windows, thresholds, DMA length) and signal selection were chosen with knowledge of recent Indian market behavior. Three independent defenses now address overfitting concern: (a) plateau-based sensitivity testing for every parameter (selected values sit on flat regions of the response surface rather than single-point optima); (b) cross-country validation on US 1995-2025 data using unchanged signal specification (9/9 stress events at 3.83% fire rate); (c) walk-forward parameter validation across 13 rolling 5y train / 1y OOS windows — production v2.1 parameters beat per-window-optimal selections on every aggregate OOS metric (+0.56pp CAGR, +0.048 Sharpe, +2.34pp shallower MaxDD). The v2.0–v2.1 refinements were tested with disqualification rules applied to each parameter sweep (no variant that breaks 2008, 2018 September NBFC, 2020 COVID, or 2021 defensive coverage was retained). Combined, these are substantially stronger overfitting defenses than parameter parsimony alone.
 
 2. **Limited regime diversity in available data.** India VIX only exists from 2008, capping the Indian backtest at ~17 years. Two true crisis regimes (GFC, COVID) plus several smaller stresses (2011, 2013, 2018, 2022) is statistically thin for a regime-conditional model. v1.4's cross-country validation extends architecture-level evidence to 31 years and 9 stress events on US data, materially addressing this concern.
 
@@ -634,7 +723,7 @@ These are structural caveats inherent to backtest research and macro-strategy de
 
 6. **Tax-model approximation (v1.4).** The 15% annual-net tax model is an approximation of Indian short-term capital gains tax. It applies a flat 15% to net positive annual returns; loss years are unchanged; intra-year losses offset gains. Real tax treatment depends on holding period, instrument-specific treatment (futures vs equities), and complex carry-forward rules not modeled. The approximation is appropriate for deployability-relevant headline metrics but should not be used for precise tax planning. Pre-tax analysis is available via `apply_tax=False`.
 
-7. **Limited out-of-sample coverage.** OOS testing covers 2026-01-01 through 2026-05-11. v2.1 outperformed NIFTY by +11.3pp pre-tax in this window — a meaningful demonstration that the slow-stress signal plus macro-confirmed gold rotation gate continue to work in live conditions. The v2.0 recovery overlay and v2.1 panic-short drawdown confirmation did not materially fire in the OOS window (the window did not contain a bear→bull V-recovery flip or a panic-short fire near the drawdown threshold), so their OOS performance is neither confirmed nor contradicted by this single window. This is a single OOS year and a single regime; broader OOS validation requires either additional time or formal walk-forward methodology (on the roadmap). Cross-country validation on US data (9/9 events caught) provides architecture-level OOS evidence even if not parameter-level.
+7. **Limited out-of-sample coverage (partially addressed via walk-forward).** Held-out 2026 OOS testing covers 2026-01-01 through 2026-05-11 — a single year, single regime. v2.1 outperformed NIFTY by +10.9pp post-tax in this window. Broader OOS coverage is now provided via walk-forward validation: 13 rolling 5y train / 1y OOS windows produce concatenated OOS results across 13 distinct one-year periods spanning 2013-2026. Production v2.1 parameters beat per-window-optimal selections on every aggregate OOS metric (+15.41% vs +14.85% CAGR, 0.755 vs 0.707 Sharpe). Cross-country validation on US data (9/9 stress events caught) provides architecture-level OOS evidence orthogonal to the parameter-level walk-forward.
 
 ---
 
@@ -644,9 +733,9 @@ In progress and planned:
 
 1. **Multi-asset holding** — test simultaneous holding of Momentum 30 and gold/NIFTY rather than the current single-asset rotation. Benchmark attribution suggested diversification value the current single-asset structure leaves unused. The post-bear NIFTY recovery overlay (v2.0) is a single-asset-at-a-time switch; multi-asset holding is the broader generalization. Architecture change to `MacroStrategy`'s position accounting; requires careful cost modeling for simultaneous long-side positions.
 
-2. **Further mitigation approaches for the 2018/2022/2025 structural-rotation losses.** These years lack the V-recovery signature the recovery overlay targets; the loss-pattern diagnostic confirmed no single price-based signal in our current dataset cleanly identifies them without unacceptable win-year whipsaw cost. The Mom30 composition diagnostic (`experiments/diagnose_mom30_composition.py`) found one informative conditional signal — β_mid > median+1σ AND most-loaded segment below own 100-DMA predicts an 11pp average forward 12-month Mom30 vs NIFTY underperformance — but rule construction failed in-sample tests. Candidate directions to investigate further: sector-rotation signals using the cached NSE sector indices (NIFTY_BANK, NIFTY_IT, NIFTY_AUTO, NIFTY_FMCG, etc.), multi-asset holding alongside Momentum 30, breadth signals (% of NIFTY 200 above own 50 DMA), and Quality 30 / Low Volatility 30 as conditional alternative long-side assets.
+2. **Further mitigation approaches for the 2018/2022/2025 structural-rotation losses.** These years lack the V-recovery signature the recovery overlay targets; the loss-pattern diagnostic confirmed no single price-based signal in our current dataset cleanly identifies them without unacceptable win-year whipsaw cost. An earlier composition diagnostic (`experiments/diagnose_mom30_composition.py`) appeared to identify an informative conditional signal but used corrupted Midcap 150 cache data (Total Return instead of Price Return). Re-running with corrected data is on the roadmap; until then, composition-based mitigation approaches are paused. See "Composition swap research — paused due to data integrity issue" subsection in the Momentum-Crash Mitigation Research section for details. Candidate directions to investigate further: sector-rotation signals using the cached NSE sector indices (NIFTY_BANK, NIFTY_IT, NIFTY_AUTO, NIFTY_FMCG, etc.), multi-asset holding alongside Momentum 30, breadth signals (% of NIFTY 200 above own 50 DMA), and Quality 30 / Low Volatility 30 as conditional alternative long-side assets.
 
-3. **Walk-forward parameter validation** — re-fit thresholds and lookback windows on rolling 5-year windows; report out-of-sample-only equity curve. Includes walk-forward validation of the slow-stress signal, gold rotation gate, recovery overlay, slow-stress cooldown duration, and panic-short drawdown threshold. v1.4's cross-country validation addresses architecture-level generalization but parameter walk-forward remains untested. Rolling 5-year training windows with 1-year OOS aggregation is the standard approach; the strategy's parameters were judgment-based throughout development.
+3. **Stock-level momentum portfolio construction (new direction, June 2026).** Extend the project from index-level overlay design (current: regime-aware engines applied to NIFTY 200 Momentum 30 index) to stock-level portfolio construction. Build a top-200 universe (BSE 200 by market cap + liquidity), apply quality screen (SCDV-style: ROE, debt/equity, earnings stability), score remaining names by 6m + 12m risk-adjusted momentum, construct a 30-stock portfolio with max 3% per position and optional sector-neutral constraint. Backtest against NIFTY 200 Momentum 30 index and NIFTY 200 Quality 30 index. Integrate as alternative long-side asset in v2.1 architecture for end-to-end comparison. This mirrors the construction methodology used by active AMC quant funds (e.g., 360 ONE Quant Fund's SCDV + momentum hybrid). 5-6 weekends estimated. Demonstrates stock-level construction capability beyond the current index-overlay design.
 
 4. **Early-recovery detection.** The 100-DMA trend filter lags cyclical recoveries by 15-25% of the underlying move. The v2.0 recovery overlay compensates for the post-flip portion of this lag but doesn't help with the pre-flip portion. Candidate replacements/augmentations: breadth signals (% of NIFTY 200 above 50 DMA), shorter MA crossovers (20/50 golden cross), VIX-peak-rollover (VIX has fallen ≥30% from a recent peak above 25). Trade-off to test: faster trend filters generate more false signals in chop regimes. Requires dedicated parameter testing and OOS validation before adoption.
 
@@ -661,6 +750,10 @@ In progress and planned:
 9. **Productionize the RBI repo rate feed** — replace the hardcoded `RBI_REPO_RATE_HISTORY` table with a CSV-backed config file plus a FRED API fallback for any dates after the last manual entry. Add a runtime warning if the strategy runs on a date past the latest available rate. Required before any live trading; nice-to-have for paper trading.
 
 10. **Modular refactor** — break monolithic `strategy.py` into `src/data.py`, `src/signals.py`, `src/backtest.py` for extensibility.
+
+**Completed in v2.1 validation (June 2026 — previously on roadmap):**
+- ✅ Walk-forward parameter validation (13 rolling 5y train / 1y OOS windows; production v2.1 beats per-window-optimal on every aggregate OOS metric: +0.56pp CAGR, +0.048 Sharpe, +2.34pp shallower MaxDD)
+- ✅ Exhaustive vol-scaling rejection (32 variants across two test rounds; closed across estimator, target structure, regime gating, smoothing, and residual asset choice)
 
 **Completed in v2.0–v2.1 (previously on roadmap):**
 - ✅ Post-bear NIFTY recovery overlay (v2.0 — addresses 2009-style V-recovery momentum-crash failure mode; +1.00pp CAGR, +0.04 Sharpe)
